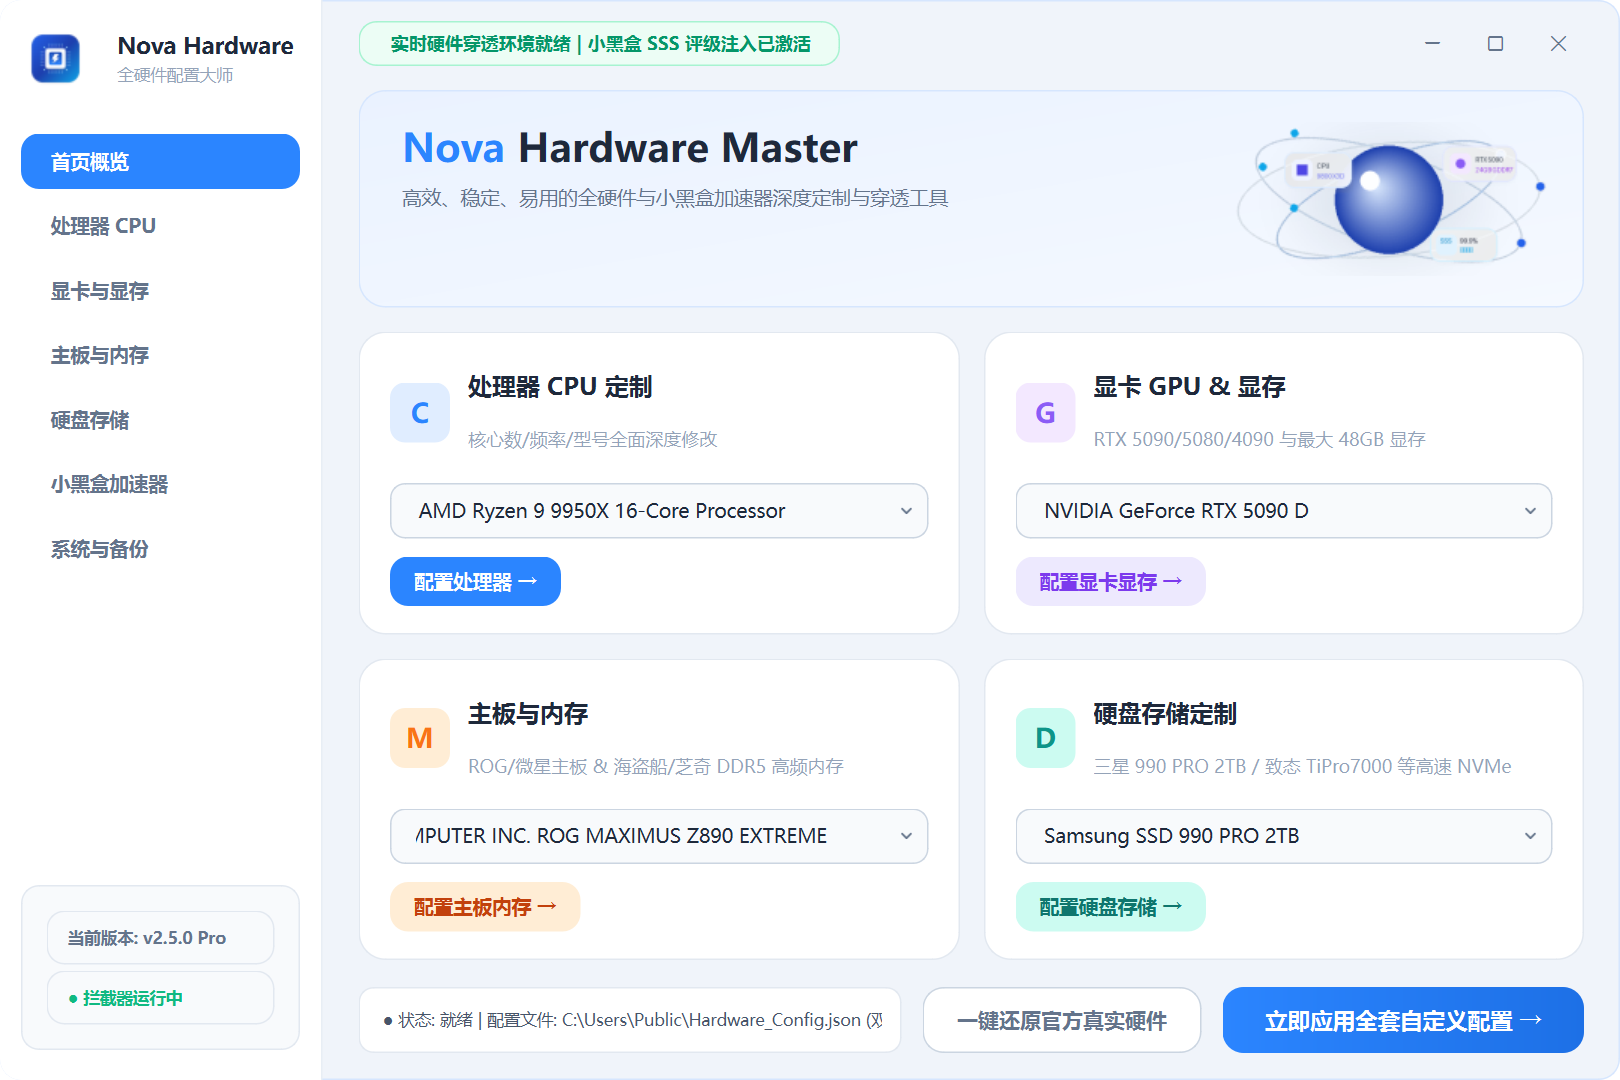
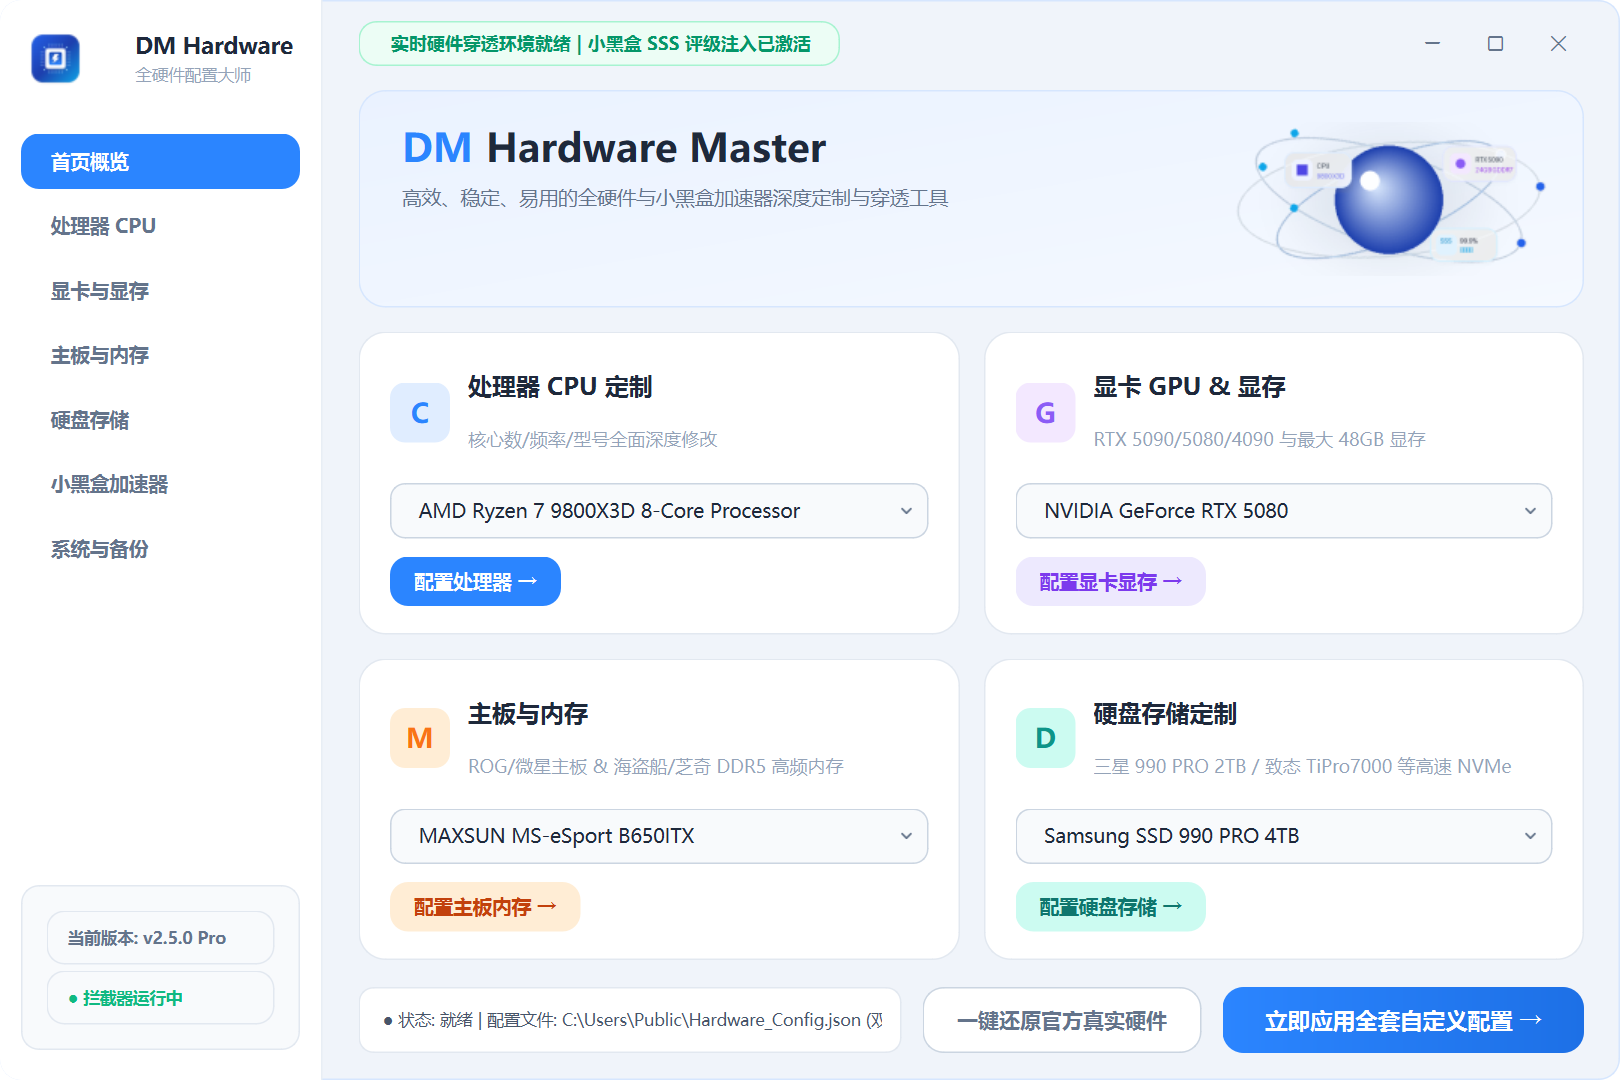
refactor: rename Nova to DM across UI branding and documentation

diff --git a/main_window.py b/main_window.py
@@ -1,6 +1,6 @@
 # -*- coding: utf-8 -*-
 """
-Nova Hardware Master - 全硬件配置大师
+DM Hardware Master - 全硬件配置大师
 现代化极简卡片轻量风格 (Light Modern Card Theme)
 完全重构与视觉升级
 """
@@ -836,7 +836,7 @@ class MainWindow(QMainWindow):
         self.init_ui()
 
     def init_ui(self):
-        self.setWindowTitle("Nova Hardware Master - 全硬件配置大师")
+        self.setWindowTitle("DM Hardware Master - 全硬件配置大师")
         self.resize(1080, 720)
         self.setMinimumSize(960, 640)
 
@@ -932,7 +932,7 @@ class MainWindow(QMainWindow):
 
         title_vbox = QVBoxLayout()
         title_vbox.setSpacing(2)
-        brand_title = QLabel("Nova Hardware")
+        brand_title = QLabel("DM Hardware")
         brand_title.setObjectName("BrandTitle")
         brand_sub = QLabel("全硬件配置大师")
         brand_sub.setObjectName("BrandSubtitle")
@@ -1076,7 +1076,7 @@ class MainWindow(QMainWindow):
         text_vbox.setSpacing(8)
         
         title_box = QHBoxLayout()
-        t1 = QLabel("Nova")
+        t1 = QLabel("DM")
         t1.setObjectName("HeroTitleMain")
         t2 = QLabel("Hardware Master")
         t2.setObjectName("HeroTitleSub")
@@ -1685,7 +1685,7 @@ def main():
 
     # 外部与任务栏图标关联 (Windows AppID)
     try:
-        myappid = "NovaHardware.Master.Customizer.2.5"
+        myappid = "DMHardware.Master.Customizer.2.5"
         ctypes.windll.shell32.SetCurrentProcessExplicitAppUserModelID(myappid)
     except Exception:
         pass

diff --git a/README.md b/README.md
@@ -1,6 +1,6 @@
 <div align="center">
 
-# ⚡ Nova Hardware Master (全套硬件配置自定义大师)
+# ⚡ DM Hardware Master (全套硬件配置自定义大师)
 
 **深度定制与伪装 Windows 系统全套核心硬件信息的现代化桌面工具**
 
@@ -11,7 +11,7 @@
 
 <br/>
 
-<img src="assets/preview.png" alt="Nova Hardware Master UI Preview" width="850" />
+<img src="assets/preview.png" alt="DM Hardware Master UI Preview" width="850" />
 
 </div>
 
@@ -19,7 +19,7 @@
 
 ## 💡 简介 (Overview)
 
-**Nova Hardware Master** 是一款采用 Fluent Design 现代化毛玻璃设计风格的全套硬件配置管理工具。支持对 **CPU 处理器、独立显卡/显存、主板 BIOS、内存 (RAM) 以及固态硬盘 (SSD)** 的深度自定义与伪装。
+**DM Hardware Master** 是一款采用 Fluent Design 现代化毛玻璃设计风格的全套硬件配置管理工具。支持对 **CPU 处理器、独立显卡/显存、主板 BIOS、内存 (RAM) 以及固态硬盘 (SSD)** 的深度自定义与伪装。
 
 具备注册表底层劫持、DirectX/DXGI 驱动描述重构、ACPI 核心枚举与 Electron / N-API 内存 Hook 等多层拦截技术，可无缝突破任务管理器、DirectX/DXGI 适配器、设备管理器及小黑盒加速器等硬件检测。
 
